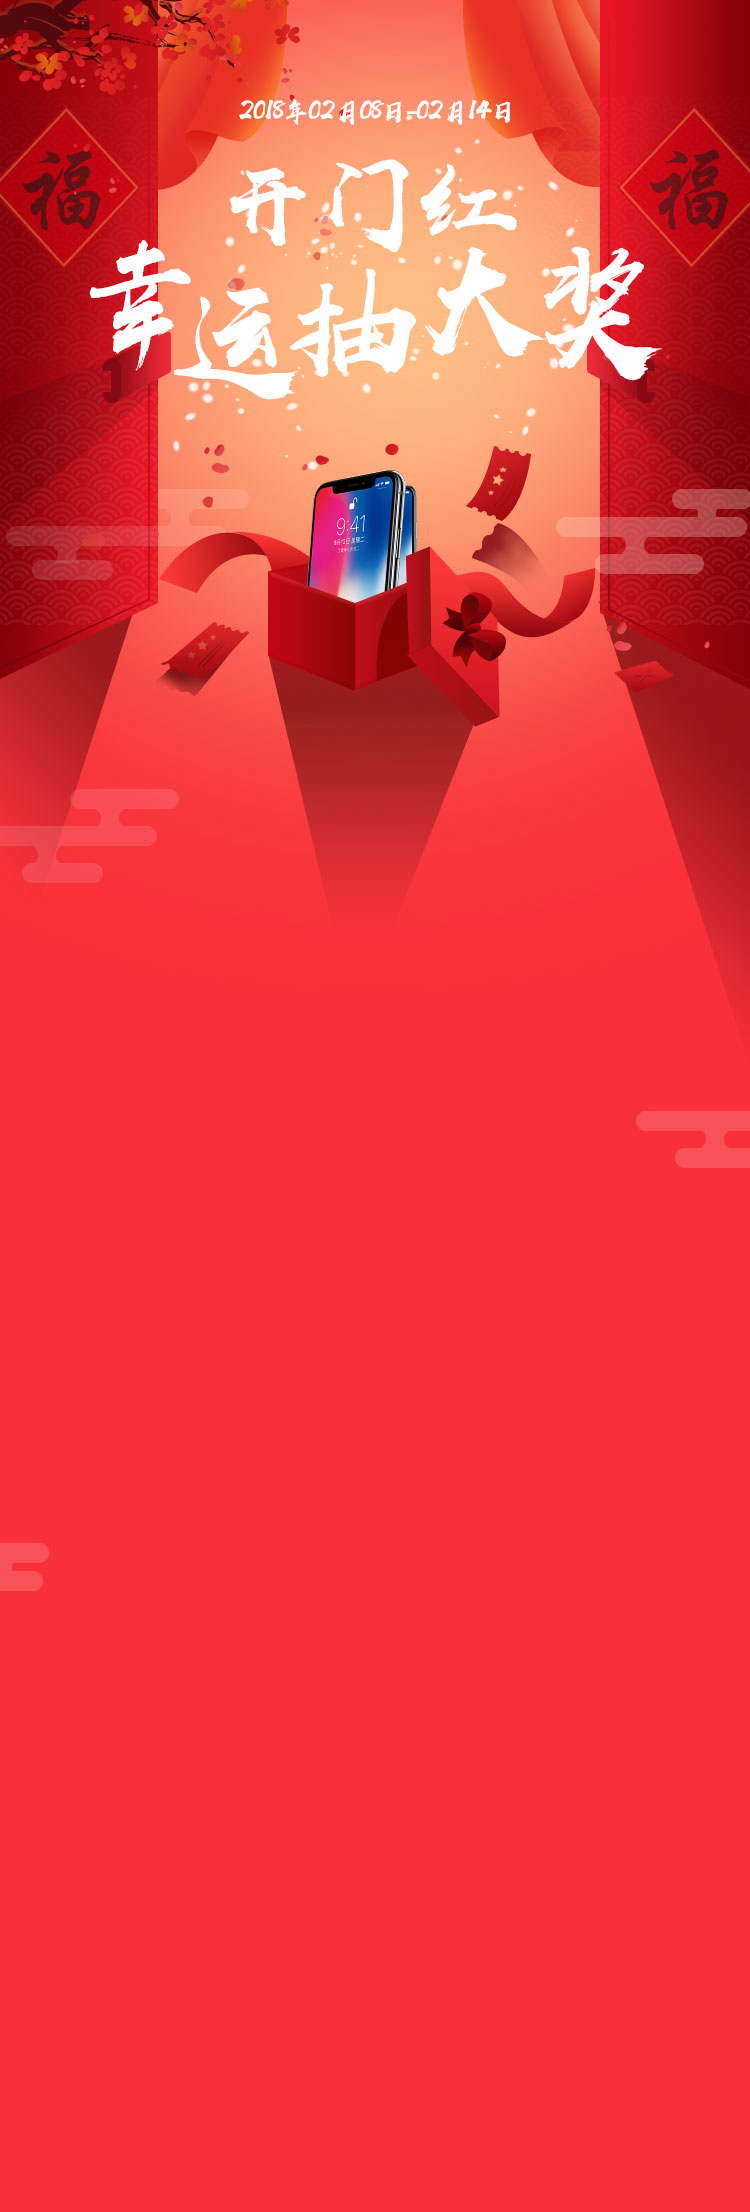
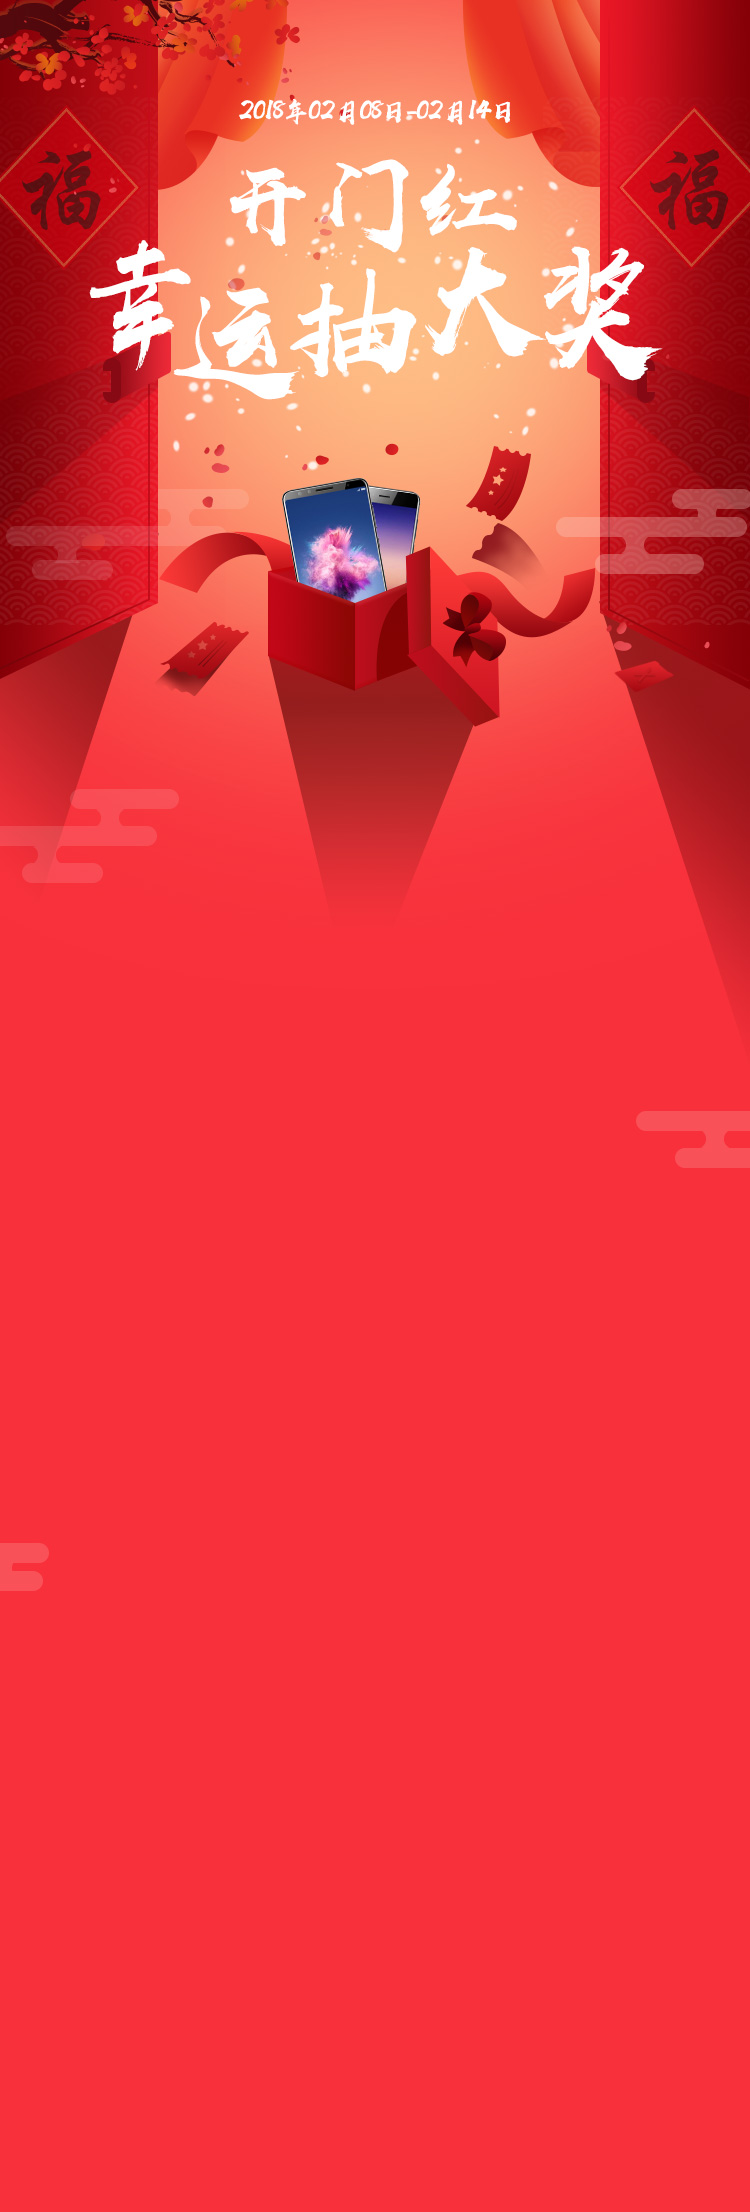
开门红

Changed region(s): [[0.368, 0.1872, 0.5827, 0.2807]]

diff --git a/html/agent/openDoorRed/activity.html b/html/agent/openDoorRed/activity.html
@@ -9,14 +9,14 @@
     <link rel="stylesheet" href="../../../css/lib/widget/mui/mui.picker.min.css" />
     <link rel="stylesheet" href="../../../css/lib/common/base.css">
     <link rel="stylesheet" href="../../../css/lib/common/common.css">
-    <link rel="stylesheet" href="../../../css/usage/agent/openDoorRed/activity.css?v=20100125">
+    <link rel="stylesheet" href="../../../css/usage/agent/openDoorRed/activity.css?v=20100128">
 </head>
 <body style="background:#f7313b">
  <div id="bodyMuiScroll" class="mui-scroll-wrapper">
      	<div class="mui-scroll">
 	<div class='redDoor'>
 		<div class="lookResult"><img alt="" src="../../../image/agent/openDoorRed/lookButton.png"></div>
-		<div class="wenzi"><img alt="" src="../../../image/agent/openDoorRed/secret.png"></div>
+		<div class="wenzi"><img alt="" src="../../../image/agent/openDoorRed/truth.png"></div>
 		<div class="timeShow">距<span id='chouState'></span>还有：<span class="time" id="hour">20</span>时<span class="time" id="minute">20</span>分<span id="second" class="time">20</span>秒</div>
 		<div class="chance" >您还有<span id='chance'></span>次抽奖机会，<a class="tolucky" id='luckyDetail'>查看抽奖明细</a></div>
 		<div class="startButton">
@@ -63,7 +63,7 @@
     <script src="../../../js/lib/widget/mui/mui.picker.min.js"></script>
     <script src="../../../js/lib/common/base.js"></script>
 	<script src="../../../js/lib/common/common.js"></script>
-	<script src="../../../js/usage/agent/openDoorRed/activity.js?v=20180129"></script>
+	<script src="../../../js/usage/agent/openDoorRed/activity.js?v=201801291541"></script>
 </body>
 </body>
 </html>

diff --git a/css/usage/agent/openDoorRed/activity.css b/css/usage/agent/openDoorRed/activity.css
@@ -15,9 +15,9 @@
 }
 .wenzi{
 	position:absolute;
-	left: 30%;
+	left: 13%;
     /* top: 54%; */
-    width:38%;
+    width:73%;
     margin:0 auto;
 }
 .timeShow{
@@ -75,7 +75,7 @@
 	width:92%;
 	height:85px;
 	margin: 0 auto;
-	background:#b7021e;
+	background:#cb0826;
 	padding:10px 3% 10px 3% ;
 	border-radius:10px;
 }
@@ -268,7 +268,7 @@
 	font-size:14px;
 }
 .imgIphone{
-	width:100px;
+	width:90px;
 	float:right;
 }
 .leftFont{

diff --git a/js/usage/agent/openDoorRed/activity.js b/js/usage/agent/openDoorRed/activity.js
@@ -161,7 +161,7 @@ function getServiceTime(){
 				publishTime.setDate(dayInit);
 				countTime = startTime;
 				$('.startButton').unbind('tap').bind('tap',function(){
-					modelAlert("今日抽奖活动已结束，请明天再来。");
+					modelAlert(buttonFontTxt+"。");
 				});
 				
 			}
